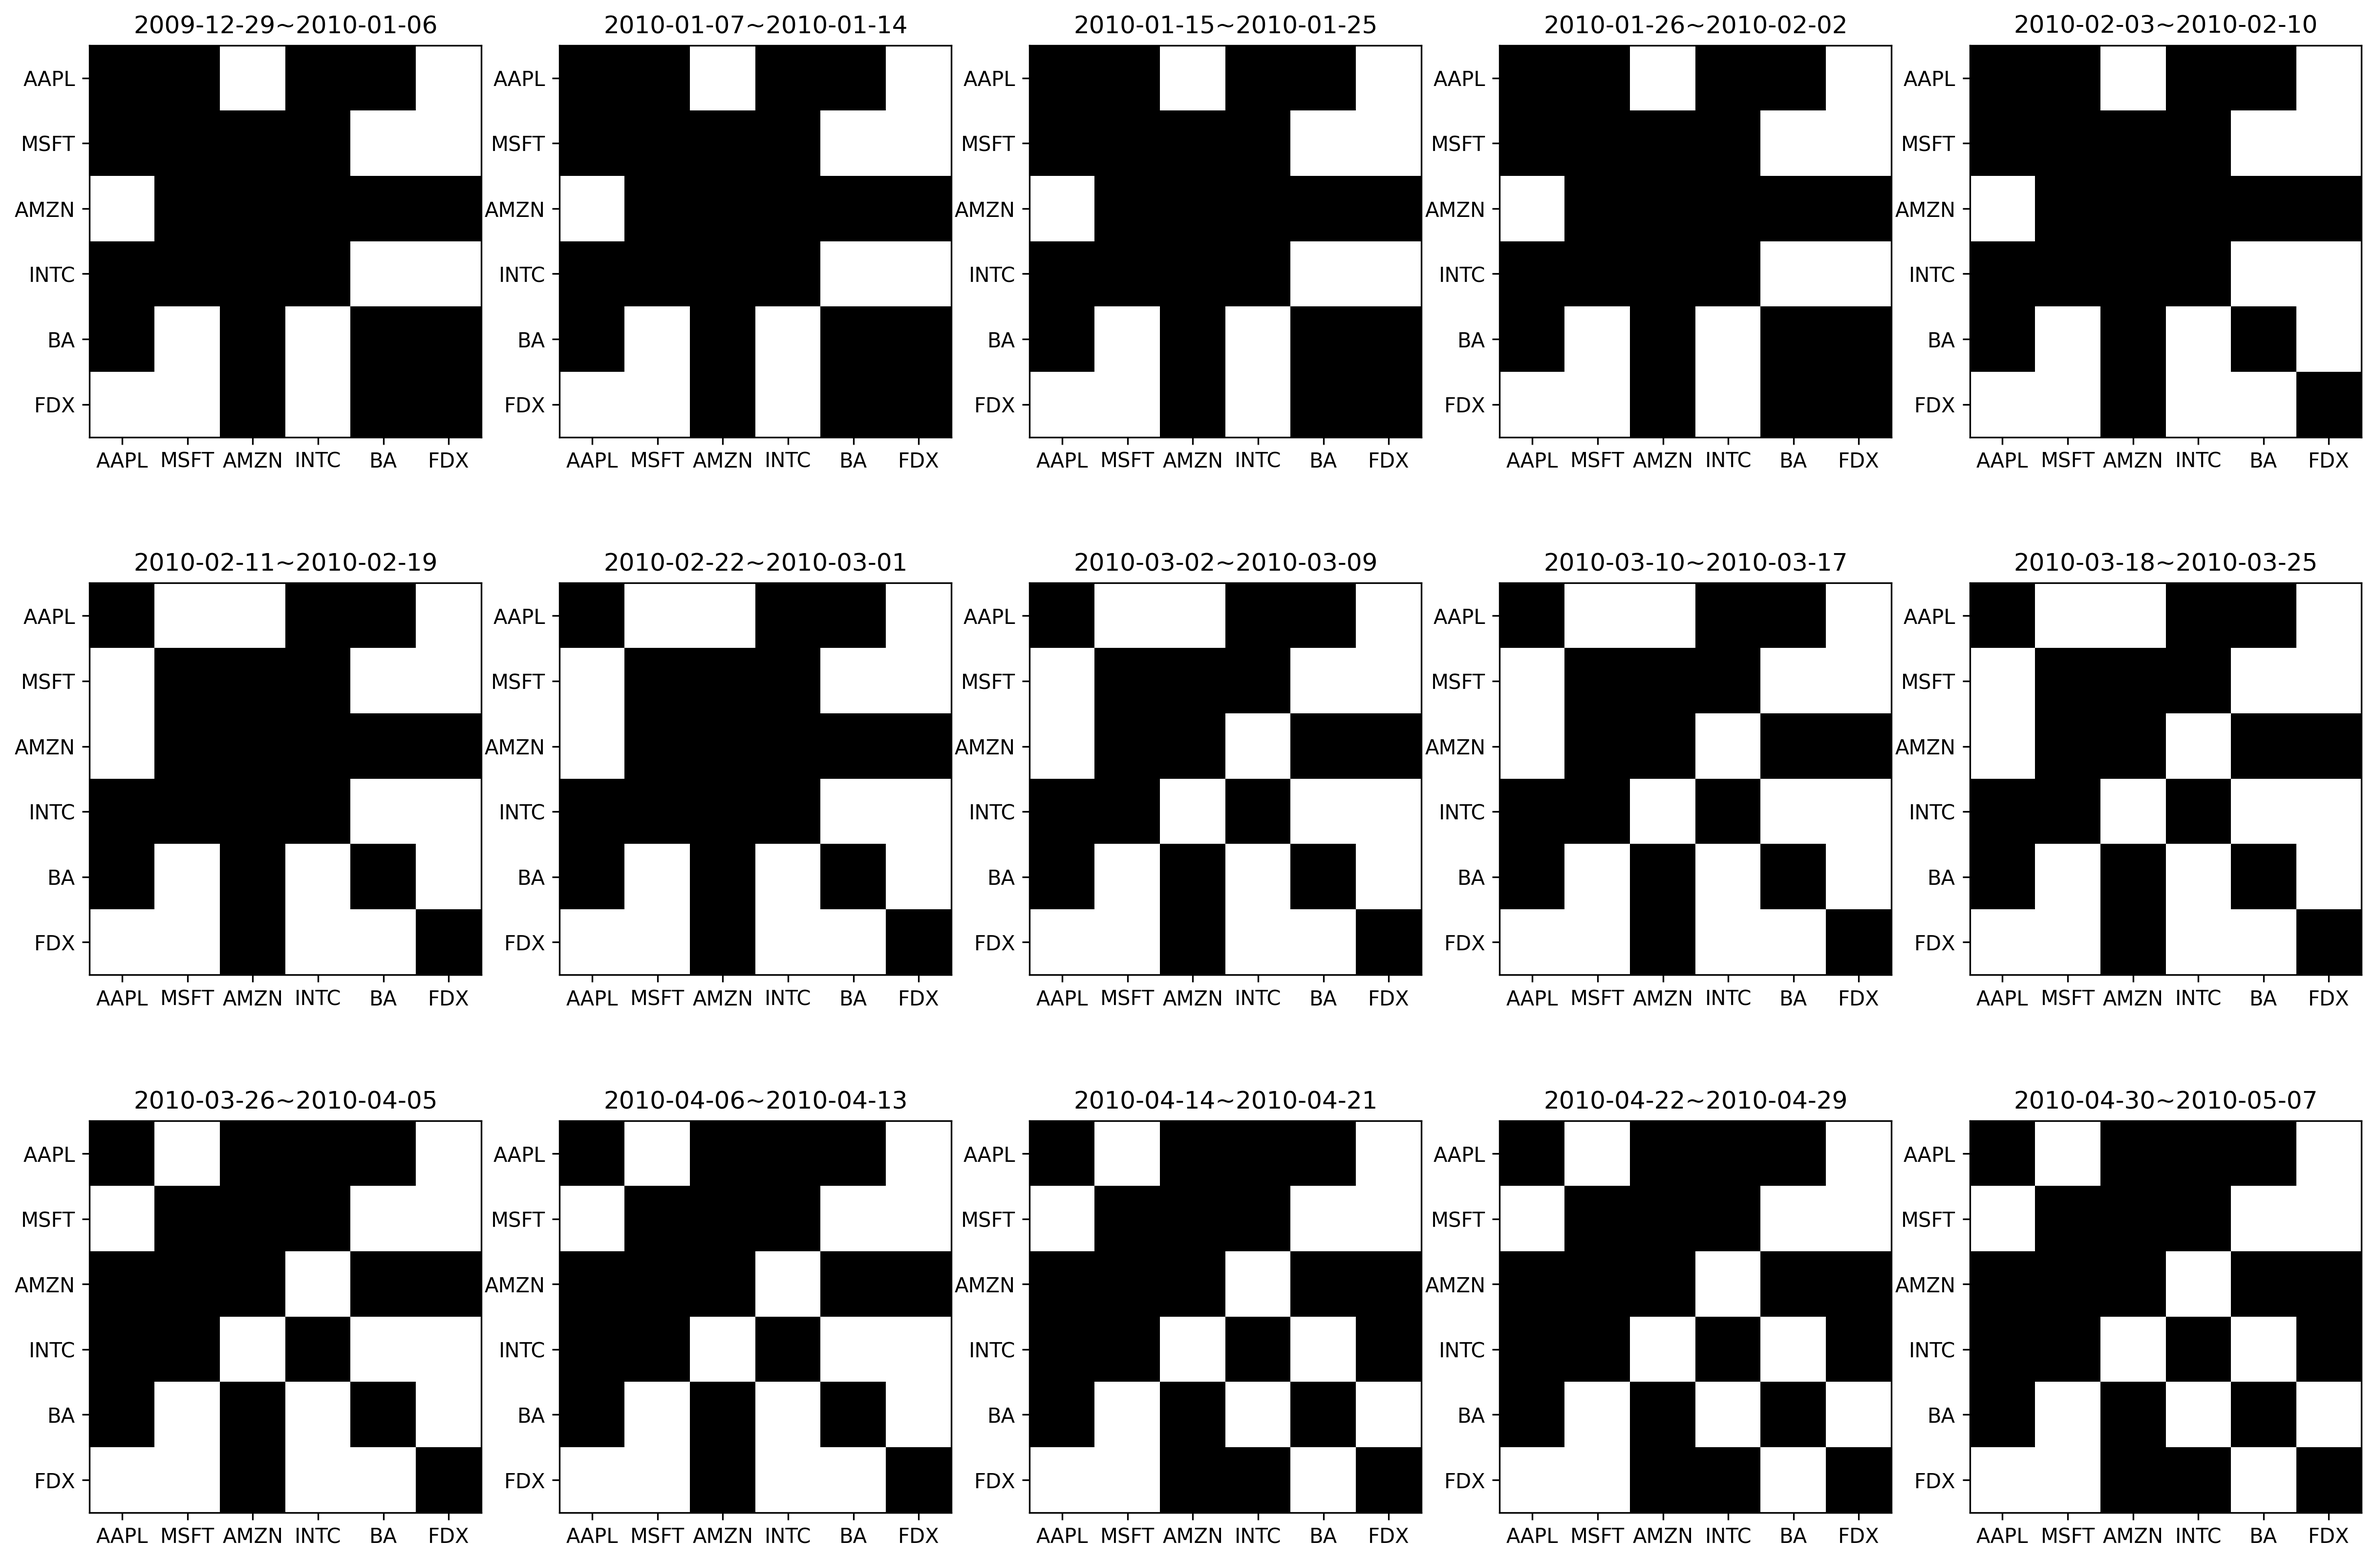
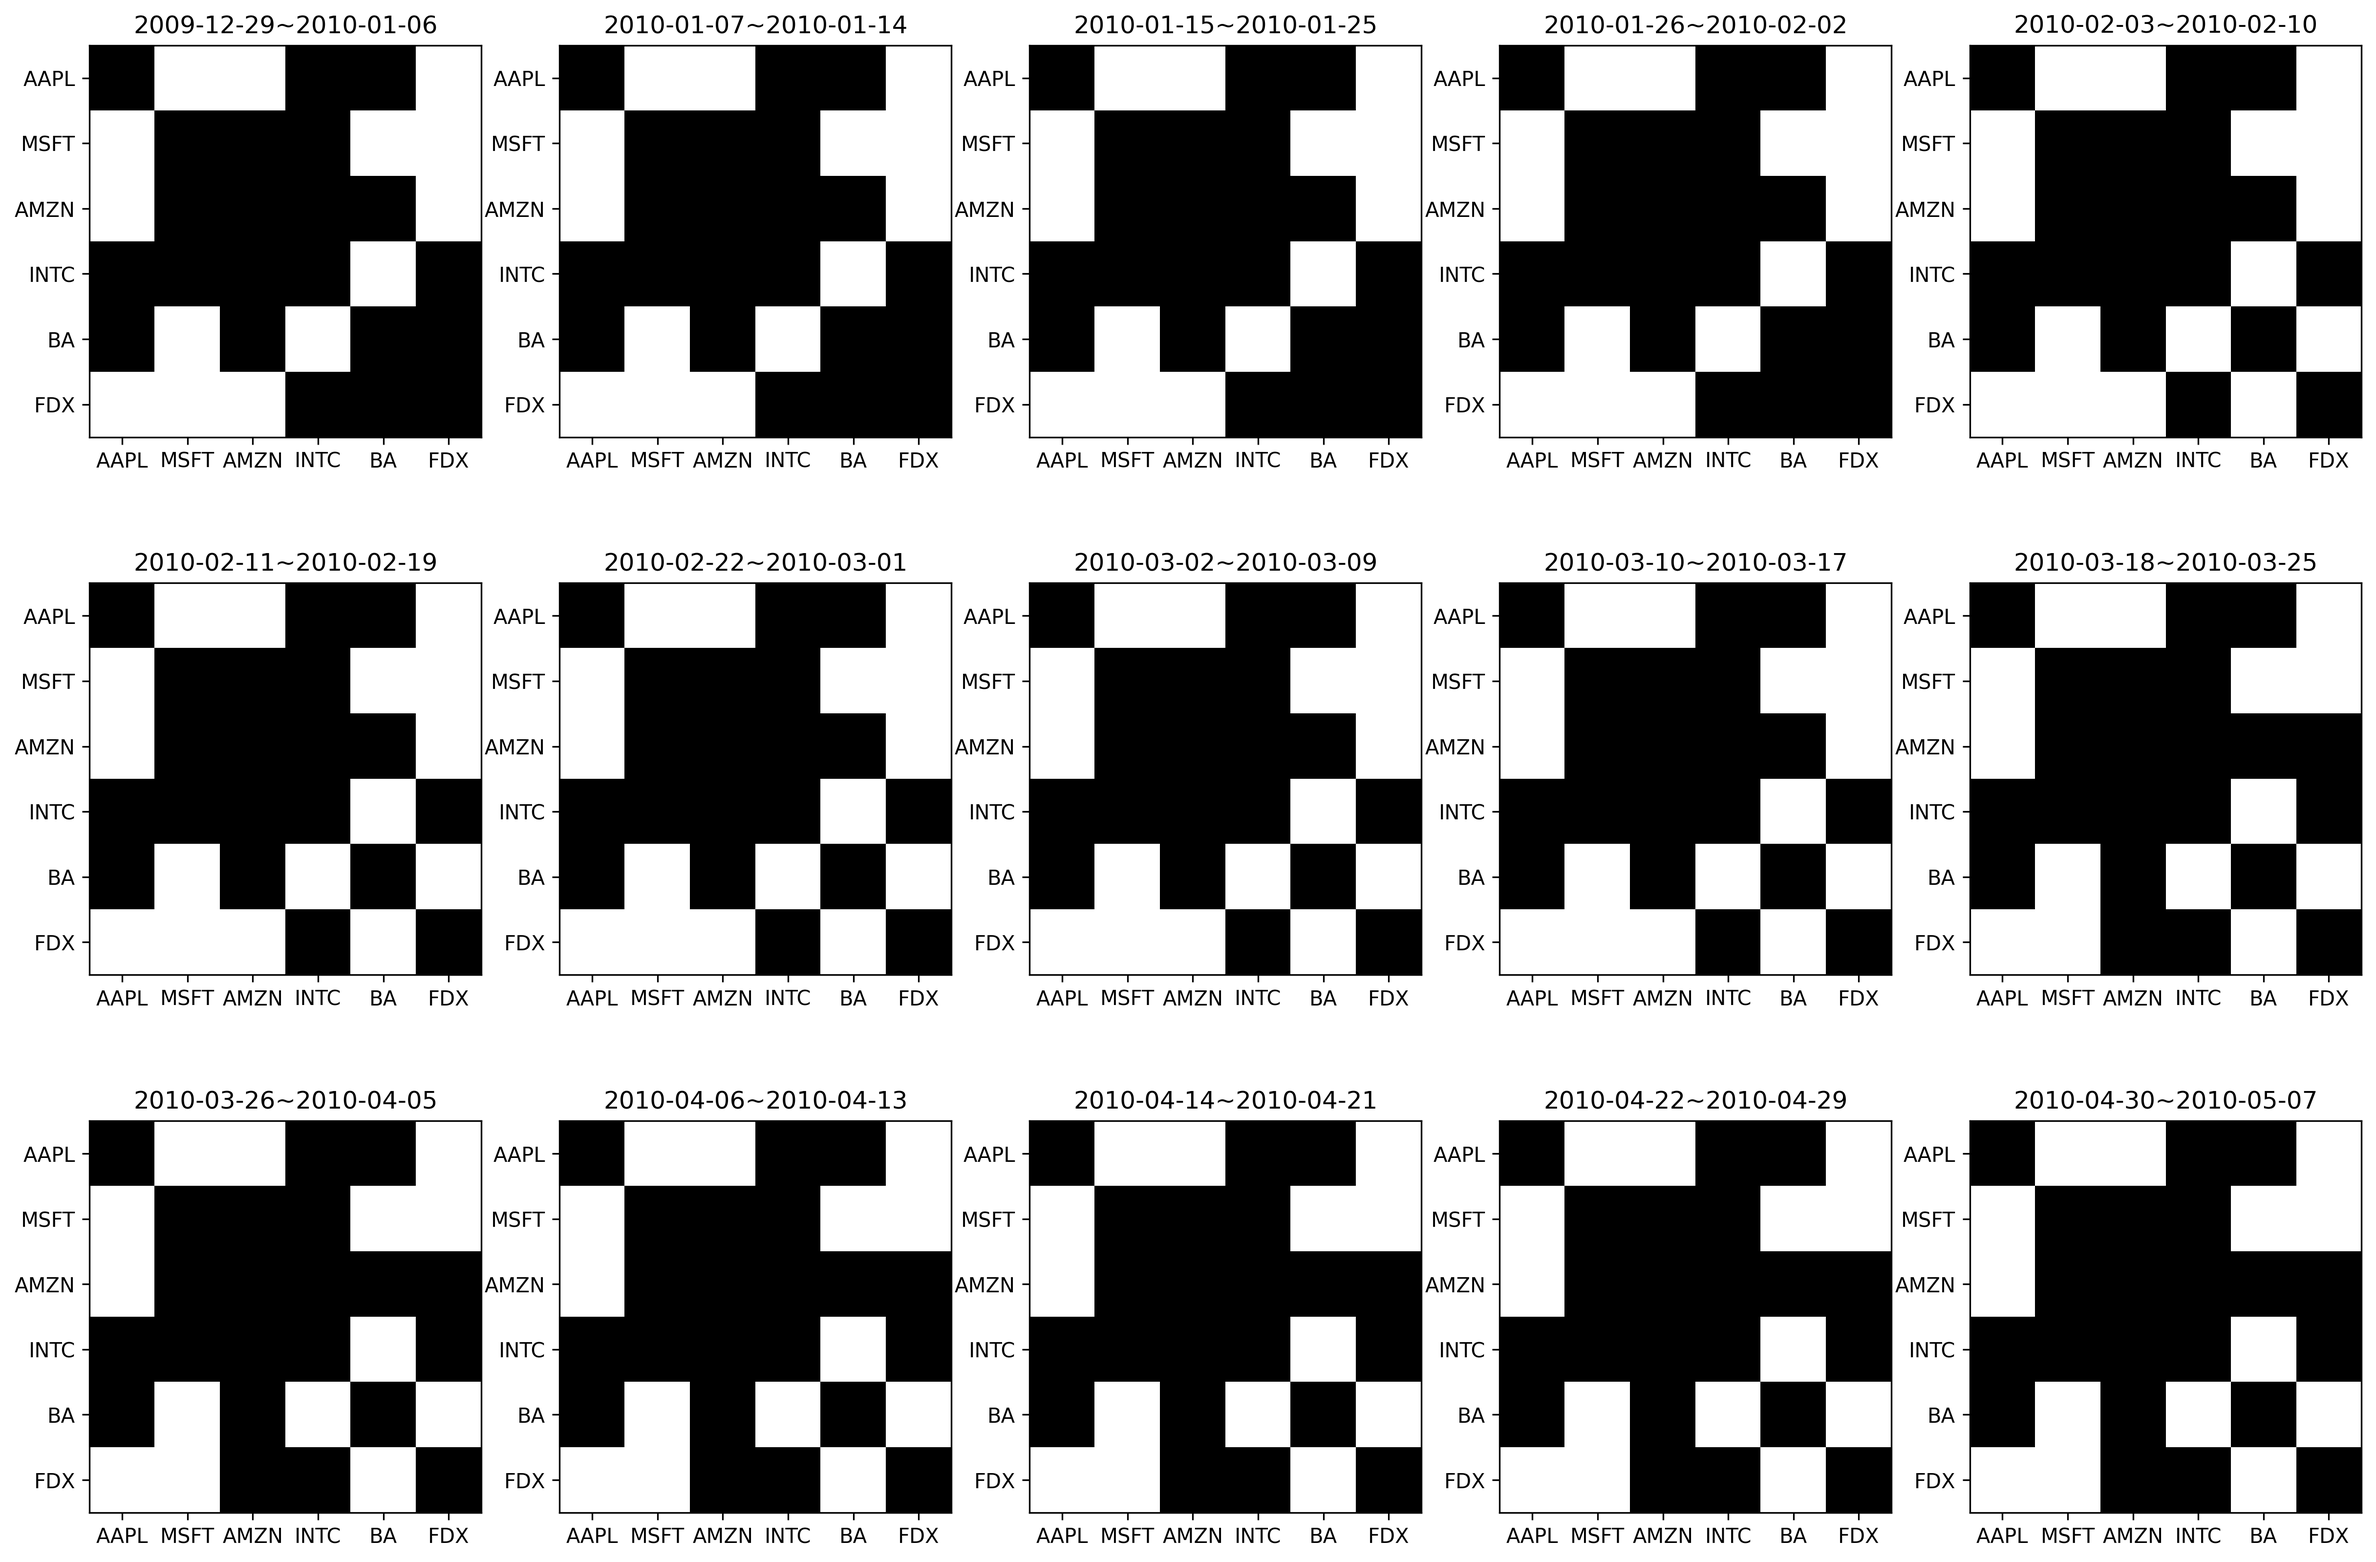
增加了修改参数的函数，主函数支持命令行输入

diff --git a/main.py b/main.py
@@ -1,16 +1,79 @@
-# This is a sample Python script.
-
-# Press Shift+F10 to execute it or replace it with your code.
-# Press Double Shift to search everywhere for classes, files, tool windows, actions, and settings.
-
-
-def print_hi(name):
-    # Use a breakpoint in the code line below to debug your script.
-    print(f'Hi, {name}')  # Press Ctrl+F8 to toggle the breakpoint.
+from ParallelTVGL import *
+from args import *
+from Params import *
 
 
 # Press the green button in the gutter to run the script.
 if __name__ == '__main__':
-    print_hi('PyCharm')
+    start_time = time.time()
+    parameters = get_parser()
+    args = parameters.parse_args()
+    filename = None
+    penalty_function = args.penalty_function
+    left_step = args.leftstep
+    right_step = args.rightstep
+    blocks = left_step + right_step
+    samplePerStep = args.samplePerStep
+    dimension = args.dimension
+    real_data = True
+    time_set = timing_set(101, samplePerStep, left_step, samplePerStep, right_step)
+    stock_list = [2, 321, 30, 241, 48, 180]
+    newADMMPara = ADMMParam
+    newADMMPara.LAMBDA = args.alpha
+    newADMMPara.BETA = args.beta
+    print("\nReading file: %s\n" % filename)
+    solver = ParallelTVGL(filename=filename,
+                          penalty_function=penalty_function,
+                          blocks=blocks,
+                          samplePerStep=samplePerStep,
+                          dimension=dimension,
+                          time_set=time_set,
+                          stock_list=stock_list,
+                          read_data_function=None,
+                          datecolumn=real_data)
+    print("Total data samples: %s" % solver.samplePerStep * solver.blocks)
+    print("Blocks: %s" % solver.blocks)
+    print("Observations in a block: %s" % solver.obs)
+    print("Rho: %s" % solver.rho)
+    print("Lambda: %s" % solver.lambd)
+    print("Beta: %s" % solver.beta)
+    print("Penalty function: %s" % solver.penalty_function)
+    print("Processes: %s" % solver.processes)
 
-# See PyCharm help at https://www.jetbrains.com/help/pycharm/
+    """ Run algorithm """
+    print("\nRunning algorithm...")
+    solver.run_algorithm()
+
+    """ Evaluate and print results """
+    print("\nNetwork 0:")
+    for j in range(solver.dimension):
+        print(solver.thetas[10][j, :])
+    company_list = get_company_list(stock_list)
+    company_list_list = list(company_list)
+    time_param = [101, samplePerStep, 3, samplePerStep, 12]
+    log_path = get_log_path(stock_list, time_param, samplePerStep, penalty_function, time_set)
+    if not Path(log_path).exists():
+        os.makedirs(log_path + "/")
+
+    save_matrix_plot_exact_number(solver.thetas, time_set, company_list_list, log_path +
+                                  '/P_theta_exact_number_{}_{}.png'.format(solver.lambd, solver.beta))
+    save_matrix_plot(solver.thetas, time_set, company_list_list, log_path +
+                     '/P_theta_{}_{}.png'.format(solver.lambd, solver.beta))
+    save_line_plot(solver.deviations, time_set, solver.lambd, solver.beta, solver.time_span, log_path +
+                   '/line_{}_{}.png'.format(solver.lambd, solver.beta),
+                   samplePerStep, penalty_function)
+    print("\nTemporal deviations: ")
+    print(solver.deviations)
+    print("Normalized Temporal deviations: ")
+    print(solver.norm_deviations)
+    try:
+        print("Temp deviations ratio: {0:.3g}".format(solver.dev_ratio))
+    except ValueError:
+        print("Temp deviations ratio: n/a")
+
+    """ Evaluate and create result file """
+
+    """ Running times """
+    print("\nAlgorithm run time: %s seconds" % (solver.time_span))
+    print("Execution time: %s seconds" % (time.time() - start_time))
+

diff --git a/BaseGraphicalLasso.py b/BaseGraphicalLasso.py
@@ -17,7 +17,7 @@ class BaseGraphicalLasso(object):
 
     """ Initialize attributes, read data """
     def __init__(self, filename, blocks, processes, samplePerStep, dimension, time_set, stock_list,
-                 read_data_function, penalty_function="group_lasso",datecolumn=True):
+                 read_data_function, penalty_function="group_lasso",datecolumn=True, newADMMParam=ADMMParam):
         self.datecolumn = datecolumn
         self.processes = processes
         self.blocks = blocks
@@ -35,8 +35,8 @@ class BaseGraphicalLasso(object):
         self.getStocks()
         self.rho = self.get_rho()
         self.max_step = 0.1
-        self.lambd = ADMMParam.LAMBDA
-        self.beta = ADMMParam.BETA
+        self.lambd = newADMMParam.LAMBDA
+        self.beta = newADMMParam.BETA
         self.thetas = [np.zeros((self.dimension, self.dimension))] * self.blocks
         self.z0s = [np.zeros((self.dimension, self.dimension))] * self.blocks
         self.z1s = [np.zeros((self.dimension, self.dimension))] * self.blocks
@@ -52,11 +52,11 @@ class BaseGraphicalLasso(object):
         self.pre_u1s = [np.zeros((self.dimension, self.dimension))] * self.blocks
         self.pre_u2s = [np.zeros((self.dimension, self.dimension))] * self.blocks
         self.eta = float(self.obs)/float(3*self.rho)
-        self.e = ADMMParam.E
-        self.roundup = ADMMParam.ROUNDUP # 结果四舍五入保留的位数
-        self.e_rel = ADMMParam.E_REL # ADMM收敛条件的两个参数
-        self.e_abs = ADMMParam.E_ABS
-        self.rho = ADMMParam.RHO
+        self.e = newADMMParam.E
+        self.roundup = newADMMParam.ROUNDUP # 结果四舍五入保留的位数
+        self.e_rel = newADMMParam.E_REL # ADMM收敛条件的两个参数
+        self.e_abs = newADMMParam.E_ABS
+        self.rho = newADMMParam.RHO
         self.time_span = None
 
 
@@ -91,6 +91,7 @@ class BaseGraphicalLasso(object):
         for i in range(samplesPerStep):
             sample = samples[:, i]
             empCov = empCov + np.outer(sample - m, sample - m)
+            # empCov = empCov + np.outer(sample, sample)
         empCov = empCov / samplesPerStep
         return empCov
 

diff --git a/ParallelTVGL.py b/ParallelTVGL.py
@@ -202,10 +202,8 @@ if __name__ == "__main__" :
     # lambd = float(sys.argv[4])
     # beta = float(sys.argv[5])
     filename = None
-    penalty_function = "element_wise"
+    penalty_function = "perturbed_node"
     blocks = 15
-    lambd = 0.3
-    beta = 5
     samplePerStep = 6
     dimension = 6
     real_data = True
@@ -248,8 +246,10 @@ if __name__ == "__main__" :
     if not Path(log_path).exists():
         os.makedirs(log_path + "/")
 
-    save_matrix_plot_exact_number(solver.thetas, time_set, company_list_list, log_path + '/P_theta_exact_number.png')
-    save_matrix_plot(solver.thetas, time_set, company_list_list, log_path + '/P_theta.png')
+    save_matrix_plot_exact_number(solver.thetas, time_set, company_list_list,
+                                  log_path + '/P_theta_exact_number_{}_{}.png'.format(solver.lambd, solver.beta))
+    save_matrix_plot(solver.thetas, time_set, company_list_list,
+                     log_path + '/P_theta_{}_{}.png'.format(solver.lambd, solver.beta))
     save_line_plot(solver.deviations, time_set, solver.lambd, solver.beta, solver.time_span, log_path + '/line.png', samplePerStep, penalty_function)
     print("\nTemporal deviations: ")
     # solver.temporal_deviations()

diff --git a/args.py b/args.py
@@ -12,6 +12,7 @@ def get_parser():
     parser.add_argument("--leftstep", type=int, required=True)
     parser.add_argument("--rightstep", type=int, required=True)
     parser.add_argument("--save_data_path", type=str, default="./data/")
-
+    parser.add_argument("--alpha", type=float, default=0.3)
+    parser.add_argument("--beta", type=float, default=7)
 
     return parser

diff --git a/Params.py b/Params.py
@@ -5,8 +5,8 @@ class ADMMParam:
     ROUNDUP = 2  # 结果四舍五入保留的位数
     E_REL = 0.00002  # ADMM收敛条件的两个参数
     E_ABS = 0.00002
-    LAMBDA = 0.3
-    BETA = 5
+    LAMBDA = 0.4
+    BETA = 10
     RHO = 1
 
 
